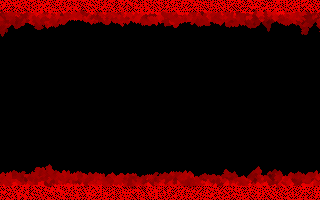
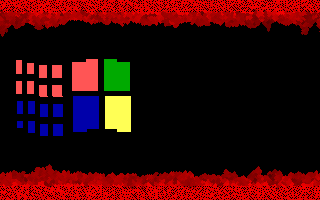
gpu: initialize the ega palette

Changed region(s): [[0.0312, 0.27, 0.4062, 0.69]]

diff --git a/src/gpu.rs b/src/gpu.rs
@@ -24,11 +24,29 @@ pub struct DACPalette {
 
 impl GPU {
     pub fn new() -> Self {
+        let mut pal = vec![DACPalette { r: 0, g: 0, b: 0 }; 256];
+        // the standard EGA palette
+        pal[0]  = DACPalette {r: 0, g: 0, b: 0};       // black
+        pal[1]  = DACPalette {r: 0, g: 0, b: 170};     // blue
+        pal[2]  = DACPalette {r: 0, g: 170, b: 0};     // green
+        pal[3]  = DACPalette {r: 0, g: 170, b: 170};   // cyan
+        pal[4]  = DACPalette {r: 170, g: 0, b: 0};     // red
+        pal[5]  = DACPalette {r: 170, g: 0, b: 170};   // magenta
+        pal[6]  = DACPalette {r: 170, g: 85, b: 0};    // brown
+        pal[7]  = DACPalette {r: 170, g: 170, b: 170}; // gray
+        pal[8]  = DACPalette {r: 85, g: 85, b: 85};    // dark gray
+        pal[9]  = DACPalette {r: 85, g: 85, b: 255};   // bright blue
+        pal[10] = DACPalette {r: 85, g: 255, b: 85};   // bright green
+        pal[11] = DACPalette {r: 85, g: 255, b: 255};  // bright cyan
+        pal[12] = DACPalette {r: 255, g: 85, b: 85};   // bright red
+        pal[13] = DACPalette {r: 255, g: 85, b: 255};  // bright magenta
+        pal[14] = DACPalette {r: 255, g: 255, b: 85};  // yellow
+        pal[15] = DACPalette {r: 255, g: 255, b: 255}; // white
         GPU {
             scanline: 0,
             width: 320,
             height: 200,
-            pal: vec![DACPalette { r: 0, g: 0, b: 0 }; 256],
+            pal: pal,
             dac_color: 0,
             dac_index: 0,
             dac_current_pal: vec![0u8; 3],
